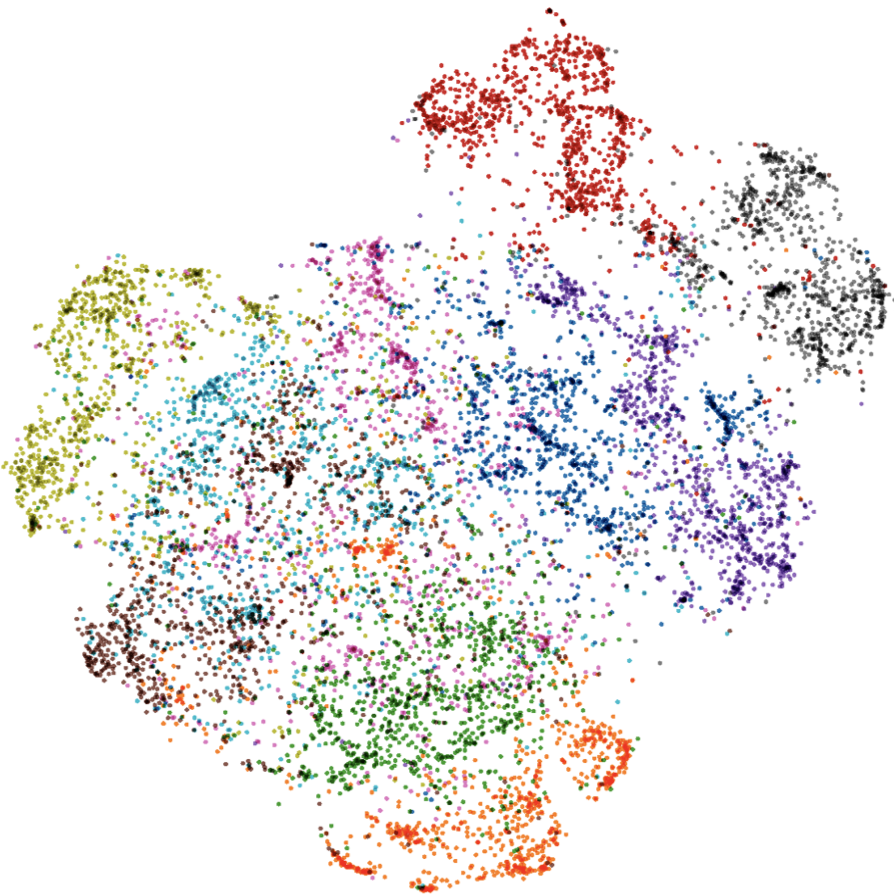
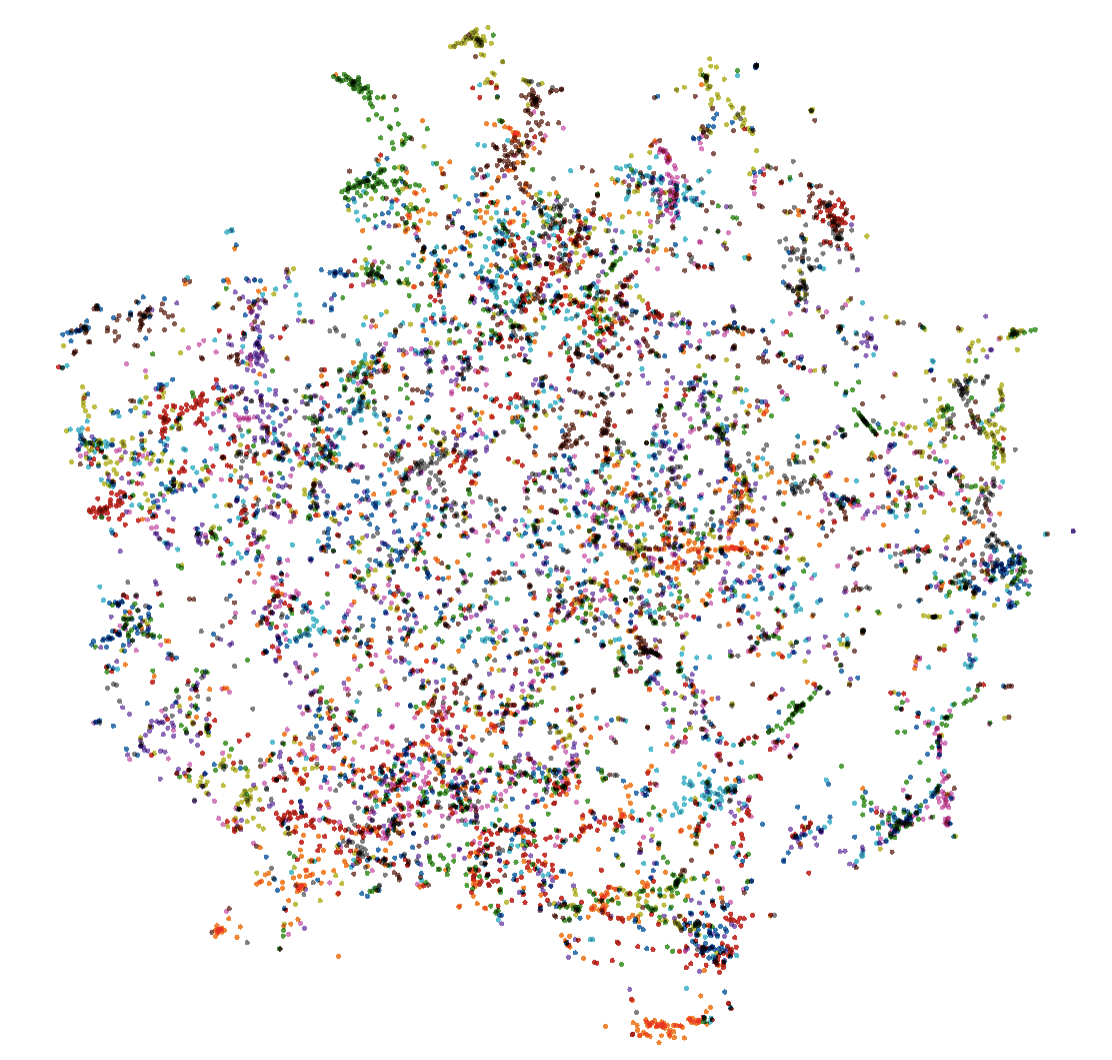
change vis

diff --git a/run.py b/run.py
@@ -211,45 +211,48 @@ class ContrastiveLearning(object):
 		best_acc = 0.0
 		args = self.args
 		all_accs = []
-		try:
-			for i_epoch in range(self.start_epoch, args.max_epoch):
-				# self.criterion.t = args.t if args.t > 0 else (0.05 + 0.15*(i_epoch/float(args.max_epoch)))
-				self.criterion.t = args.t 
-				logging.info(self.criterion.t)
-				self.current_epoch = i_epoch
-				adjust_learning_rate(args.lr, args.lr_decay_steps, self.optimizer, i_epoch, lr_decay_rate=args.lr_decay_rate, cos=args.cos, max_epoch=args.max_epoch)
-				self.train()
+		if not self.args.embedding:
+			try:
+				for i_epoch in range(self.start_epoch, args.max_epoch):
+					# self.criterion.t = args.t if args.t > 0 else (0.05 + 0.15*(i_epoch/float(args.max_epoch)))
+					self.criterion.t = args.t 
+					logging.info(self.criterion.t)
+					self.current_epoch = i_epoch
+					adjust_learning_rate(args.lr, args.lr_decay_steps, self.optimizer, i_epoch, lr_decay_rate=args.lr_decay_rate, cos=args.cos, max_epoch=args.max_epoch)
+					self.train()
 
-				save_name = 'checkpoint.pth'
-				checkpoint = {
-					'epoch': i_epoch + 1,
-					'state_dict': self.network.state_dict(),
-					'optimizer': self.optimizer.state_dict(),
-					'memory_banks': self.memory_bank.points,
-					'neigh': self.memory_bank.neigh,
-				}
-				torch.save(checkpoint, os.path.join(args.exp, 'models', save_name))
+					save_name = 'checkpoint.pth'
+					checkpoint = {
+						'epoch': i_epoch + 1,
+						'state_dict': self.network.state_dict(),
+						'optimizer': self.optimizer.state_dict(),
+						'memory_banks': self.memory_bank.points,
+						'neigh': self.memory_bank.neigh,
+					}
+					torch.save(checkpoint, os.path.join(args.exp, 'models', save_name))
 
-				# scheduler.step()
-				# validate(network, memory_bank, val_loader, train_ordered_labels, device)
-				acc = self.kNN(K=200, sigma=0.07)
-				all_accs.append(acc)
-				if acc >= best_acc:
-					best_acc = acc
-					torch.save(checkpoint, os.path.join(args.exp, 'models', 'best.pth'))
-				if i_epoch in [30, 60, 120, 160, 200, 400, 600]:
-					torch.save(checkpoint, os.path.join(args.exp, 'models', '{}.pth'.format(i_epoch+1)))
+					# scheduler.step()
+					# validate(network, memory_bank, val_loader, train_ordered_labels, device)
+					acc = self.kNN(K=200, sigma=0.07)
+					all_accs.append(acc)
+					if acc >= best_acc:
+						best_acc = acc
+						torch.save(checkpoint, os.path.join(args.exp, 'models', 'best.pth'))
+					if i_epoch in [30, 60, 120, 160, 200, 400, 600]:
+						torch.save(checkpoint, os.path.join(args.exp, 'models', '{}.pth'.format(i_epoch+1)))
 
-				args.y_best_acc = best_acc
-				logging.info(colorful('[Epoch: {}] val acc: {:.4f}'.format(i_epoch, acc)))
-				logging.info(colorful('[Epoch: {}] best acc: {:.4f}'.format(i_epoch, best_acc)))
-				self.writer.add_scalar('acc', acc, i_epoch+1)
+					args.y_best_acc = best_acc
+					logging.info(colorful('[Epoch: {}] val acc: {:.4f}'.format(i_epoch, acc)))
+					logging.info(colorful('[Epoch: {}] best acc: {:.4f}'.format(i_epoch, best_acc)))
+					self.writer.add_scalar('acc', acc, i_epoch+1)
 
-				# cluster
-		except KeyboardInterrupt as e:
-			logging.info('KeyboardInterrupt at {} Epochs'.format(i_epoch))
-			save_result(self.args)
-			exit()
+					# cluster
+			except KeyboardInterrupt as e:
+				logging.info('KeyboardInterrupt at {} Epochs'.format(i_epoch))
+				save_result(self.args)
+				exit()
+		else:
+			self.inference()
 		np.save(os.path.join(self.args.exp, 'accs.npy'), all_accs)
 		self.recording.save(self.args.exp)
 		save_result(self.args)
@@ -367,6 +370,27 @@ class ContrastiveLearning(object):
 
 		return top1/total
 
+	@torch.no_grad()
+	def inference(self):
+		self.network.eval()
+		points = torch.zeros(len(self.val_dataset), 128).to(self.device).detach()
+		labels = []
+		pointer = 0
+		pbar = tqdm(self.val_loader)
+		for data in pbar:
+			img = data[1].to(self.device)
+			targets = data[2]
+			bs = img.size(0)
+			if self.args.embedding_layer == 'fc':
+				feat = self.network(img, layer=7)
+			elif self.args.embedding_layer == 'lastconv':
+				feat = self.network(img, layer=6)
+			points[pointer:pointer+bs] = feat
+			targets = list(map(lambda a: a.item(), targets))
+			labels.extend(targets)
+			pointer = pointer + bs
+		
+		self.writer.add_embedding(points, metadata=labels)
 
 def main():
 	parser = argparse.ArgumentParser()
@@ -400,6 +424,9 @@ def main():
 	parser.add_argument('--nonlinearhead', default=0, type=int)
 	parser.add_argument('--record_prob', default=0.1, type=float)
 	parser.add_argument('--record_freq', default=10, type=float)
+
+	parser.add_argument('--embedding', default=0, type=int)
+	parser.add_argument('--embedding_layer', default='fc', type=str)
 	# exclusive best to be 0
 	args = parser.parse_args()
 	Runner = ContrastiveLearning(args)
